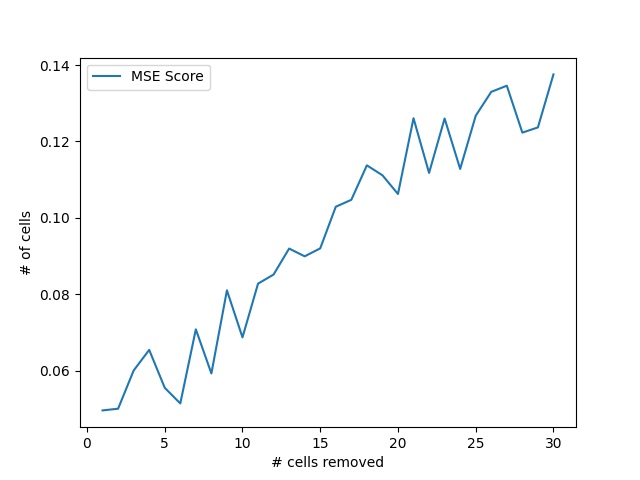
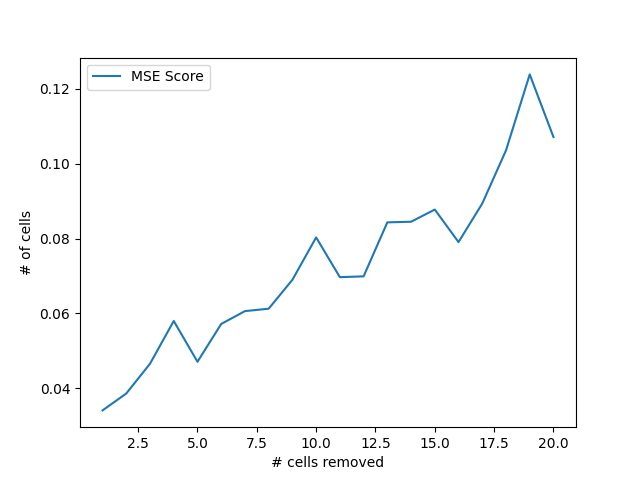
major optimization improvements

diff --git a/source/probability_search/probability_assisted_tree_search.py b/source/probability_search/probability_assisted_tree_search.py
@@ -10,7 +10,7 @@ from networks.score_predictor import ScoreFinder
 ROOT_PATH = os.path.abspath(os.getcwd()) # current root of the probability search
 
 from tools.rle_reader import RleReader 
-from tools.gol_tools import outputShipData
+from tools.gol_tools import outputShipData, normalizedPatternToRle, patternIdentity
 from tools.testing import createTestingShipWithCellsMissing, locationDifferencesBetweenTwoMatrixies
 
 
@@ -30,7 +30,7 @@ class Board:
 
 
 	def getPossibleActions(self):
-		return self.candidateAndScoringMethod(iteration)
+		return self.candidateAndScoringMethod()
 
 
 	def candidateAndScoringMethod(self):
@@ -38,21 +38,27 @@ class Board:
 		# MIGHT NEED TO CHANGE THESE VALUES IN ORDER TO ELIMINATE A GOOD AMOUNT OF CELLS- TO ALLOW TREE SEARCH TO RUN
 		# MAYBE COULD MAKE THEM DYNAMIC: AS THE SEARCH CONTINUES, MAKE THEM MORE EXTREME TO ENCOURAGE SEARCH
 		# OF OTHER BRANCHES IN THE SEARCHED LIST [CHECK THIS]
-		positive_threshold = 0.15 + (self.level * 0.1)
-		negative_threshold = -0.6 + (self.level * 0.1)
+		positive_threshold = 0.3 #+ (self.level * 0.1)
+		negative_threshold = -0.8# + (self.level * 0.1)
 		
 		probability_matrix = self.model(self.board)[0]
-		candidate_cells = list(np.argwhere(probability_matrix.detach().numpy() != 0))
+		candidate_cells = list(np.argwhere(abs(probability_matrix.detach().numpy()) > positive_threshold))
 
 		candidates = []
-		for i in range(self.N_CONSIDERATIONS):
-			positive_additions = [candidate for candidate in candidate_cells if probability_matrix[candidate[0], candidate[1]] > positive_threshold]
-			negative_additions = [candidate for candidate in candidate_cells if probability_matrix[candidate[0], candidate[1]] < negative_threshold]
+		positive_additions = [tuple(candidate) for candidate in candidate_cells if probability_matrix[candidate[0], candidate[1]] > positive_threshold]
+		negative_additions = [tuple(candidate) for candidate in candidate_cells if probability_matrix[candidate[0], candidate[1]] < negative_threshold]
 
+		for i in range(self.N_CONSIDERATIONS):
+			
 			if len(positive_additions):
+				max_item = max(positive_additions, key=lambda x: abs(probability_matrix[x[0], x[1]]))
 				candidates.append(max(positive_additions, key=lambda x: abs(probability_matrix[x[0], x[1]])))
+				positive_additions.remove(max_item)
+
 			if len(negative_additions):
-				candidates.append(max(negative_additions, key=lambda x: abs(probability_matrix[x[0], x[1]])))
+				max_item = max(negative_additions, key=lambda x: abs(probability_matrix[x[0], x[1]]))
+				candidates.append(max_item)
+				negative_additions.remove(max_item)
 
 		for candidate in candidates:
 			newGrid = self.board.clone()
@@ -65,27 +71,9 @@ class Board:
 
 		return candidateStates
 
-
-# returns a model change matrix
-def modelChangeIteratively(model, initialState, n_iters):
-
-	workState = initialState.detach()
-	for _ in range(n_iters):
-		modeled_change = model(workState).detach()
-		result = (workState + modeled_change).numpy()[0]
-		remove_ones = np.argwhere(result > 1)
-		result[remove_ones[:, 0], remove_ones[:, 1]] = 1
-		remove_zeros = np.argwhere(result < 0)
-		result[remove_zeros[:, 0], remove_zeros[:, 1]] = 0
-		result = result[None, :]
-		workState = torch.from_numpy(result)
-
-	threshold = 0.18 
-	newMatrix = np.zeros_like(result)
-	aboveHalf = np.argwhere(result > threshold)
-	newMatrix[aboveHalf[:, 0], aboveHalf[:, 1]] = 1
-
-	return torch.from_numpy(result)
+	# MAYBE CHANGE THIS SCORING FUNCTION AND VISITED MODIFIER
+	def getScore(self):
+		return self.scoringModel(self.board).item() - self.visited
 
 
 def tree_search(max_depth, model, score_model, currentState, number_of_returns=10):
@@ -102,7 +90,7 @@ def tree_search(max_depth, model, score_model, currentState, number_of_returns=1
 
 	for i in range(max_depth):
 		exploredStates.append(currentState)
-		actions = [action for action in currentState.getPossibleActions(i) if not action in exploredStates]
+		actions = [action for action in currentState.getPossibleActions() if not action in exploredStates]
 
 		if not actions:
 			currentState = max(exploredStates, key=lambda x: x.getScore())
@@ -157,24 +145,25 @@ def search(initialInput=None, n_iters=10, size=(20, 20), max_depth=100, testing_
 	if isinstance(inputGrid, type(None)):
 		inputGrid, removed = strategicFill(inputGrid) #no user supplied input- strategic fill
 
-	if testing_data:
-		inputGrid = testing_data["initialInput"] # use input from testing data
-
 	all_results = []
 
-	# IDEA: CHANGE THE MAX DEPTH AS A FUNCTION OF NUMBER OF ITERATIONS
-	for i in range(n_iters):
-		if testing_data:
-			# is this feature necessary?
-			results = tree_search(max_depth, model, score_model, inputGrid, debug_list=testing_data["removed"], debug_ship=testing_data["og_ship"])
-		else:
-			# results = tree_search(max_depth, model, score_model, inputGrid)
-			# max_depth as a function of iterations:
-			results = tree_search(int(max_depth * (1 + (i*0.1))), model, score_model, inputGrid)
+	if testing_data:
+		originalRle = normalizedPatternToRle(patternIdentity(np.array(testing_data["ship"])))
 
+	for i in range(n_iters):
+
+		# results = tree_search(max_depth, model, score_model, inputGrid)
+		# max_depth as a function of iterations:
+		results = tree_search(int(max_depth * (1 + (i*0.1))), model, score_model, inputGrid)
 
 		all_results += results
 		for result in results:
+			if testing_data:
+				if normalizedPatternToRle(patternIdentity(np.array(result.board[0]))) == originalRle:
+					# print(originalRle)
+					return all_results
+				continue
+
 			data = outputShipData(np.array(result.board))
 			if data:
 				print(data["rle"])
@@ -182,7 +171,7 @@ def search(initialInput=None, n_iters=10, size=(20, 20), max_depth=100, testing_
 				return all_results
 				
 		inputGrid = optimizeInputGrid(inputGrid, results)
-		print(f"Iteration {i+1}/{n_iters}")
+		# print(f"Iteration {i+1}/{n_iters}")
 
 	return all_results
 

diff --git a/source/probability_search/analytics.py b/source/probability_search/analytics.py
@@ -4,6 +4,7 @@ import os
 import random
 import matplotlib.pyplot as plt
 import pandas as pd
+from tqdm import tqdm
 
 from networks.convolution_probability_network import ProbabilityFinder
 from networks.score_predictor import ScoreFinder
@@ -311,10 +312,10 @@ def shipAfterSearchAnalysis(results, original_matrix):
 def analyzeSearchMethodConvergence():
 	# basically, i want to know if less max_depth but more iterations will make this algorithm better
 	n_ships = 10
-	n_iter_list = [3]
-	max_depth_list = [30]
+	n_iter_list = [5]
+	max_depth_list = [100]
 	n_cells_removed_list = [i+1 for i in range(20)]
-	ship_testing_list = random.choices(ships, k=n_ships)
+	ship_testing_list = random.sample(ships, k=n_ships)
 
 	results_dict = {
 		"n_iter" : [],
@@ -326,14 +327,20 @@ def analyzeSearchMethodConvergence():
 		"found_ship" : [],
 	}
 
+	total = len(n_iter_list) * len(max_depth_list) * n_ships * len(n_cells_removed_list)
+	pbar = tqdm(desc="Analysing search algorithm: ", total=total)
 	for n_iter in n_iter_list:
 		for max_depth in max_depth_list:
 			for ship in ship_testing_list:
 				for n_cells_removed in n_cells_removed_list:
 					damagedSpaceship, removed = createTestingShipWithCellsMissing(ship, n_cells_removed)
-					# FIX THIS METHOD TO ADAPT TO BOTH REMOVED AND ADDED SPACESHIP TESTING
-					# damagedSpaceship, removed = createTestingShipWithCellsAdded(ship, n_cells_removed)
-					results = search(n_iters=n_iter, max_depth=max_depth, initialInput=damagedSpaceship)
+					results = search(
+						n_iters=n_iter, 
+						max_depth=max_depth, 
+						initialInput=damagedSpaceship.clone(), 
+						testing_data={
+							"ship" : ship,
+						})
 					data = shipAfterSearchAnalysis(results, ship)
 					results_dict["n_iter"] += [n_iter] * len(results)
 					results_dict["max_depth"] += [max_depth] * len(results)
@@ -342,6 +349,10 @@ def analyzeSearchMethodConvergence():
 					results_dict["cells_missing"] += data["cells_missing"]
 					results_dict["extra_cells"] += data["extra_cells"]
 					results_dict["found_ship"] += data["found_ship"] 
+
+					pbar.update(1)
+
+	pbar.close() # delete the progress bar
 
 	results_pd = pd.DataFrame(results_dict)
 	iter_grouped = results_pd.groupby(["n_iter"]).aggregate(np.mean)
@@ -402,15 +413,15 @@ if __name__ == "__main__":
 	ships = rle_reader.getFileArray(filePath)
 
 	# if doing some training data testing:
-	# ships = ships[:800]
+	ships = ships[:800]
 	# ships = ships[800:]
 
 	# testing data:
 	# ships = ships[800:]
 
 	# run_ship_network_tests()
-	runScoringTests(100)
-	# analyzeSearchMethodConvergence() # speed this up
+	# runScoringTests(100)
+	analyzeSearchMethodConvergence()
 
 
 # Current analytics available:

diff --git a/source/probability_search/tools/testing.py b/source/probability_search/tools/testing.py
@@ -2,8 +2,8 @@ import numpy as np
 import torch
 import os
 import random
-from rle_reader import RleReader
-from gol_tools import outputShipData
+from .rle_reader import RleReader
+from .gol_tools import outputShipData
 
 ROOT_PATH = os.path.abspath(os.pardir) # current root of the probability search
 

diff --git a/source/probability_search/tools/gol_tools.py b/source/probability_search/tools/gol_tools.py
@@ -1,6 +1,6 @@
 import numpy as np
-from game_of_life import Game
-from rle_reader import RleReader
+from .game_of_life import Game
+from .rle_reader import RleReader
 
 
 # return if it is a ship, the speed, period, etc...
